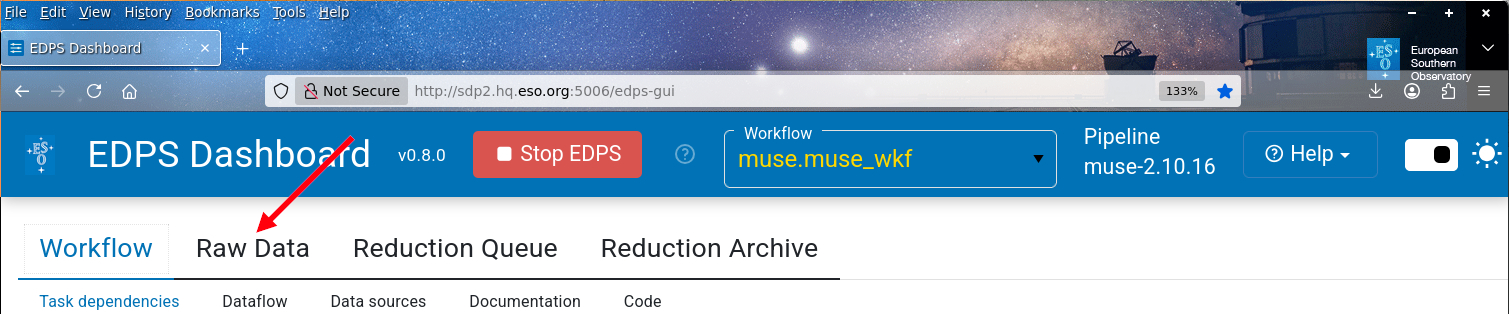
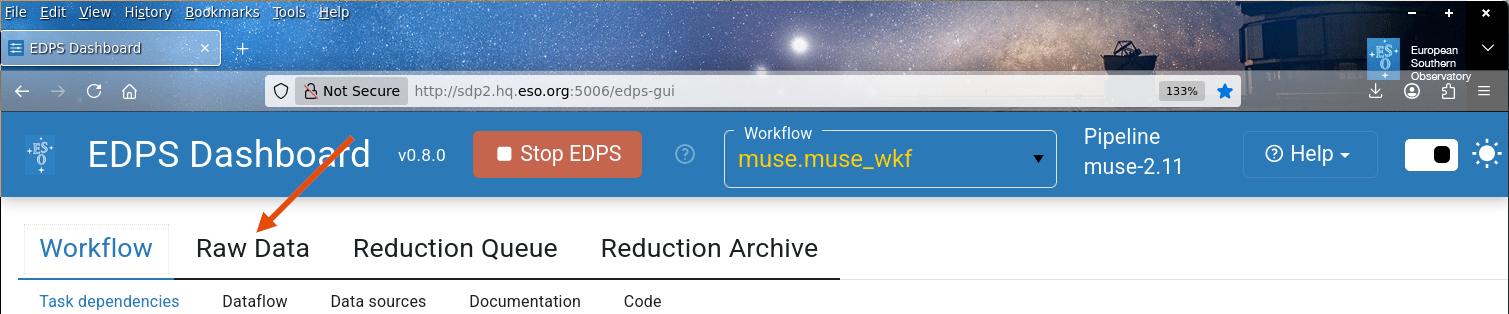
Start putting muse in line with 2.11 version

diff --git a/source/muse/task_list.md b/source/muse/task_list.md
@@ -5,33 +5,35 @@ by a workflow parameter). Other tasks are not used for scientific reduction (the
 for instrument monitoring and they can be executed only by specifying them as target. Note that, when a task is specified as target, all the 
 tasks that generate the calibrations needed for it are automatically executed.
 
-| TASK                            | 	RECIPE            | Used in  <br/>  science reduction | 	Notes                                                             |            
-|---------------------------------|---------------------|-------------------------------------|--------------------------------------------------------------------|
-| alignment	                      | muse_exp_align	  | yes	                                | Aligns a set of exposures for combination.                         |
-| alignment_sky	                  | muse_exp_align	  | no	                                 | Aligns a set of sky exposures for combination.                     |
-| astrometry	                     | muse_astrometry	  | no	                                 | Computes astrometry.                                               |
-| autocalibration_from_object_sky | none		          | no	                                 | Selects sky expousres for additional slice-to-slice flat fielding. |
-| bias	                           | muse_bias	          | yes	                                | Computes the masterbias.                                           |
-| dark			                         | muse_dark	     |optional| 	 Computes the master dark.                                        |
-| geometry		                      | muse_geometry    |optional| 	Generates geometry calibrations.			                               |
-| lamp_flat		                     | muse_flat	     |yes     | 	Computes master flat field.				                                   |
-| line_spread_function_arc        | muse_lsf	     |yes     | 	Computes LSF from arc exposures.			                               |
-| line_spread_function_lsf        | muse_lsf	     |optional| 	Computes LSF from dedicated calibrations.		                       |
-| linearity_and_gain	             | muse_lingain     |no      | 	Computes linearity and gain correction.			                        |
-| object			                       | muse_scipost     |yes     | 	Creates a datacube from individual scientific observations.       |
-| object_combination	             | muse_exp_combine |yes     | 	Creates a datacube from combined scientific observations.         |
-| object_sky		                    | muse_scipost     |no      | 	Processes sky exposures as they were science exposures.	          |
-| preprocess_astrometry	          | muse_scibasic    |optional| 	Reduces astrometric calibrations.			                              |
-| preprocess_science	             | muse_scibasic    |yes     | 	Reduces science exposures.				                                    |
-| preprocess_sky		                | muse_scibasic    |yes     | 	Reduces sky exposures.					                                       |
-| preprocess_sky_sci	             | muse_scibasic    |no      | 	Reduces sky exposures as they were science exposures.	            |
-| preprocess_standard	            | muse_scibasic    |yes     | 	Reduces standard star observations.			                            |
-| response		                      | muse_standard    |yes     | 	Computes the response function and atmospheric transmission.      |
-| sky			                          | muse_create_sky  |yes     | 	Computes the sky background from dedicated sky exposures.         |
-| sky_combination	                | muse_exp_combine |no      | 	Combines sky frames as they were science exposures.	              |
-| sky_flat		                      | muse_twilight    |optional| 	Processes skyflats for illumination correction.		                 |
-| throughput		                    | muse_ampl	     |no      | 	Computes the throughput.				                                      |
-| wavelength		                    | muse_wavecal     |yes     | 	Computes wavelength calibration.			                               |
+| TASK                            | 	RECIPE          | Used in  <br/>  science reduction | 	Notes                                                                         |            
+|---------------------------------|------------------|-----------------------------------|--------------------------------------------------------------------------------|
+| alignment	                      | muse_alignment	  | yes	                              | Aligns a set of exposures for combination using source list.                   |
+| alignment_sky	                  | muse_alignment	  | no	                               | Aligns a set of sky exposures for combination using source list.               |
+| astrometry	                     | muse_astrometry	 | no	                               | Computes astrometry.                                                           |
+| autocalibration_from_object_sky | none		           | no	                               | Selects sky expousres for additional slice-to-slice flat fielding.             |
+| bias	                           | muse_bias	       | yes	                              | Computes the masterbias.                                                       |
+| dark			                         | muse_dark	       | optional                          | 	 Computes the master dark.                                                    |
+| geometry		                      | muse_geometry    | optional                          | 	Generates geometry calibrations.			                                           |
+| lamp_flat		                     | muse_flat	       | yes                               | 	Computes master flat field.				                                               |
+| line_spread_function_arc        | muse_lsf	        | yes                               | 	Computes LSF from arc exposures.			                                           |
+| line_spread_function_lsf        | muse_lsf	        | optional                          | 	Computes LSF from dedicated calibrations.		                                   |
+| linearity_and_gain	             | muse_lingain     | no                                | 	Computes linearity and gain correction.			                                    |
+| object			                       | muse_scipost     | yes                               | 	Creates a datacube from individual scientific observations.                   |
+| object_combination	             | muse_exp_combine | yes                               | 	Creates a datacube from combined scientific observations.                     |
+| object_sky		                    | muse_scipost     | no                                | 	Processes sky exposures as they were science exposures.	                      |
+| preprocess_astrometry	          | muse_scibasic    | optional                          | 	Reduces astrometric calibrations.			                                          |
+| preprocess_science	             | muse_scibasic    | yes                               | 	Reduces science exposures.				                                                |
+| preprocess_sky		                | muse_scibasic    | yes                               | 	Reduces sky exposures.					                                                   |
+| preprocess_sky_sci	             | muse_scibasic    | no                                | 	Reduces sky exposures as they were science exposures.	                        |
+| preprocess_standard	            | muse_scibasic    | yes                               | 	Reduces standard star observations.			                                        |
+| response		                      | muse_standard    | yes                               | 	Computes the response function and atmospheric transmission.                  |
+| sky			                          | muse_create_sky  | yes                               | 	Computes the sky background from dedicated sky exposures.                     |
+| sky_combination	                | muse_exp_combine | no                                | 	Combines sky frames as they were science exposures.	                          |
+| sky_flat		                      | muse_twilight    | optional                          | 	Processes skyflats for illumination correction.		                             |
+| source_detection                | muse_detection   | yes                               | Detects sources in the datacube and creates a source catalog.		                |
+| source_detection_sky            | muse_detection   | no                                 | Detects sources in the datacube of sky exosure and creates a source catalog.		 |
+| throughput		                    | muse_ampl	       | no                                | 	Computes the throughput.				                                                  |
+| wavelength		                    | muse_wavecal     | yes                               | 	Computes wavelength calibration.			                                           |
 
 
 ---

diff --git a/source/muse/reducing_demo.md b/source/muse/reducing_demo.md
@@ -30,7 +30,7 @@ The EDPS Dashboard (Graphic User Interface) with the MUSE workflow loaded.
 ```
 
 c. (Optional). Select the reduction target, configure the workflow parameter and specify the association preferences. 
-Thise steps are optional. For more information see [here](configure_dataset_.md).
+These steps are optional. For more information see [here](configure_dataset_.md).
 
 ```{include} ../common/reducing_demo_3.md
 ```

diff --git a/source/muse/index.rst b/source/muse/index.rst
@@ -19,4 +19,4 @@ MUSE tutorial
 
 ------------
 
-MUSE Version 2.10.16 - 20251210
+MUSE Version 2.11.00 - 20260410
